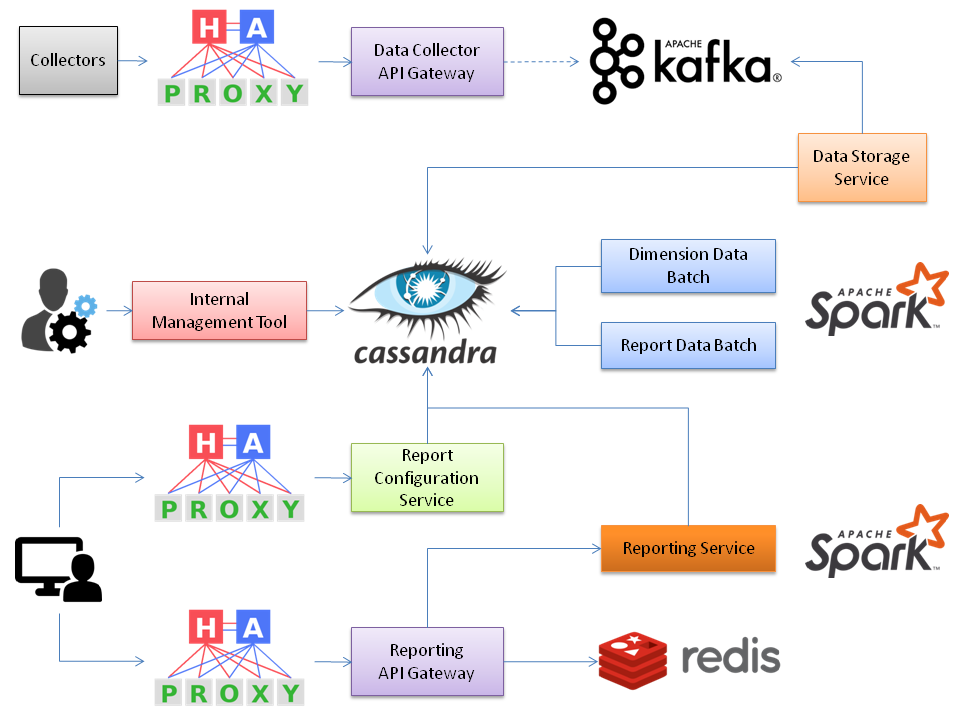
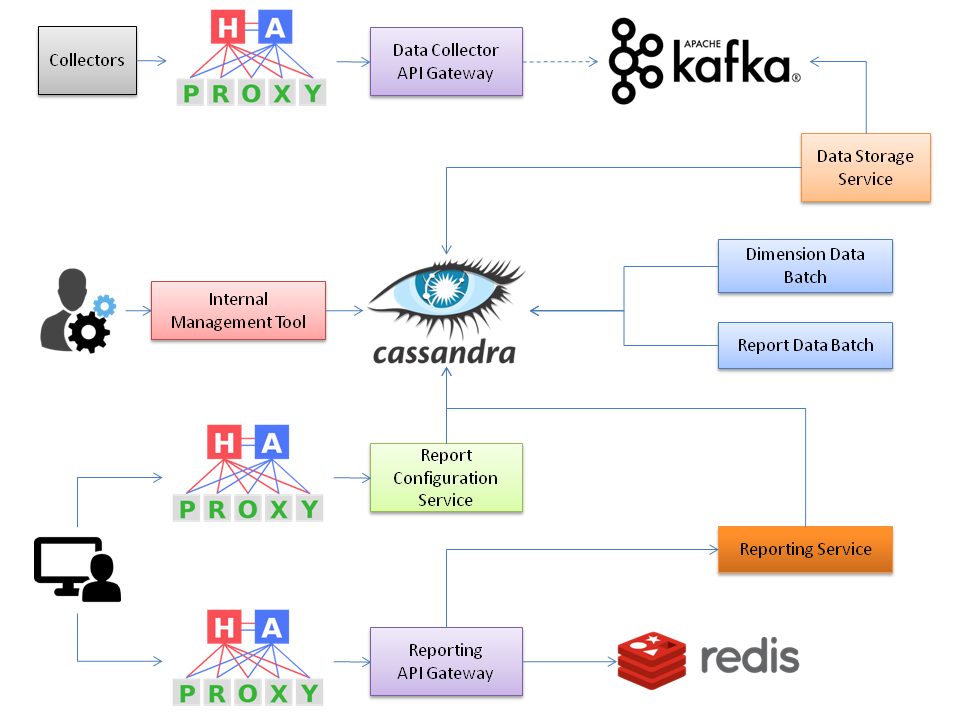
update arch

diff --git a/README.md b/README.md
@@ -28,7 +28,7 @@ Aggregated metrics should be optimal for the interval querying.
 
 > Provide metrics to customers with at most one hour delay.
 
-We should create the target reporting data records as fast as possible, but not required for real-time computation.
+We can create the target reporting data records with offline batches as real-time computation is not required.
 
 > Have the ability to reprocess historical data in case of bugs in the processing logic.
 
@@ -236,10 +236,6 @@ If necessary, we can even maintain `day` shards to improve large interval queryi
 
 This section is about the architecture design with assumed OSS and key components to draw a big picture of how to make the system.
 
-We need to consider each requirement from technical perspective.
-
-We must understand what we need and why we need it.
-
 For OSS, we should consider those are best fit for our requirement and are widely used with strong and stable community support. Because these OSS are key components of our system, which must be stable and updated for long-term in the lifecycle of the system.
 
 Thus, we try to use major OSS if possible.
@@ -284,7 +280,7 @@ The large read volume comes from lots of report viewers.
 
 Reports are not essentially real-time, but has a 1 hour limit for generation, so we use offline batch processing to prepare these reports.
 
-- Use a batch to incrementally process raw data into various kinds of dimension data configured by report viewers or predefined by the system. Some of the dimension data are common for all reports, some of them maybe specific for different reports.
+- Use a batch to incrementally process raw `EventDataPoint` into various kinds of dimension data configured by report viewers or predefined by the system. Some of the dimension data are common for all reports, some of them maybe specific for different reports. For each dimension, we do sharding for time units with `BucketEvent`.
 
 - A report is a combination of various dimension data with computation on aggregation results. We need another batch job to incrementally process dimension data into different users' reports as well.
 
@@ -294,27 +290,13 @@ When report viewers want to view some reports, the computation engine will find 
 
 We can also leverage caching (e.g., [Redis](https://redis.io/)) to cache query results to reduce the overall latency and pressure of computation engine and primary storage.
 
-## Computation Engine
-
-In order to process data and do computation on reports, we need performent computation engine that fit for large volume of data.
-
-The computation engine should:
-
-- Run in distributed parallel manner with low latency
-  
-- Support streaming data processing with vairous kinds of time-windows (e.g., `1 minute`, `1 hour`, `1 day`, etc)
-
-- Has high availability
-
-Here, we use [Apache Spark](https://spark.apache.org/) for this purpose as it's well designed for big data real-time stream computation and widely used, which is fit for our requirement.
-
 ## High availability
 
 In order to ensure high availability of the whole system, we need to ensure high availability of each component of it.
 
 ### Middlewares
 
-Middlewares like `Kafka`, `Cassandra`, `Redis` and `Spark` are naturally designed to be fault-tolerant with clustering support.
+Middlewares like `Kafka`, `Cassandra` and `Redis` are naturally designed to be fault-tolerant with clustering support.
 
 We also need [HAProxy](http://www.haproxy.org/) like load balancer for both data collector api and report api service.
 
@@ -401,7 +383,7 @@ The configuration data can be stored in either `Cassandra` or other databases (e
 
 ## Dimension Data Processing Batch
 
-This is a batch job built on top of `Spark` to convert raw data into dimension data incrementally with short execution interval.
+This is a batch job used to convert raw data into dimension data incrementally with short execution interval.
 
 How to generate the dimension data is based on the configuration data specified by `Report Configuration Service`.
 
@@ -409,7 +391,7 @@ The generated dimension data will be stored in dimension scheme in `Cassandra`, 
 
 ## Report Data Processing Batch
 
-This is a batch job built on top of `Spark` to combine dimension data by aggregating required metrics into report data incrementally with short execution interval.
+This is a batch job used to combine dimension data by aggregating required metrics into report data incrementally with short execution interval.
 
 How to generate the report data is based on the configuration data specified by `Report Configuration Service`.
 
@@ -433,7 +415,7 @@ Of course, the API is responsible for user authentication as well.
 
 ## Reporting Service
 
-Reporting service is built on top of `Spark` to query report data points from `Cassandra` and do computation on the data to generate final report.
+Reporting service is used to query report data points from `Cassandra` and do computation on the data to generate final report.
 
 ## Internal Management Service
 
